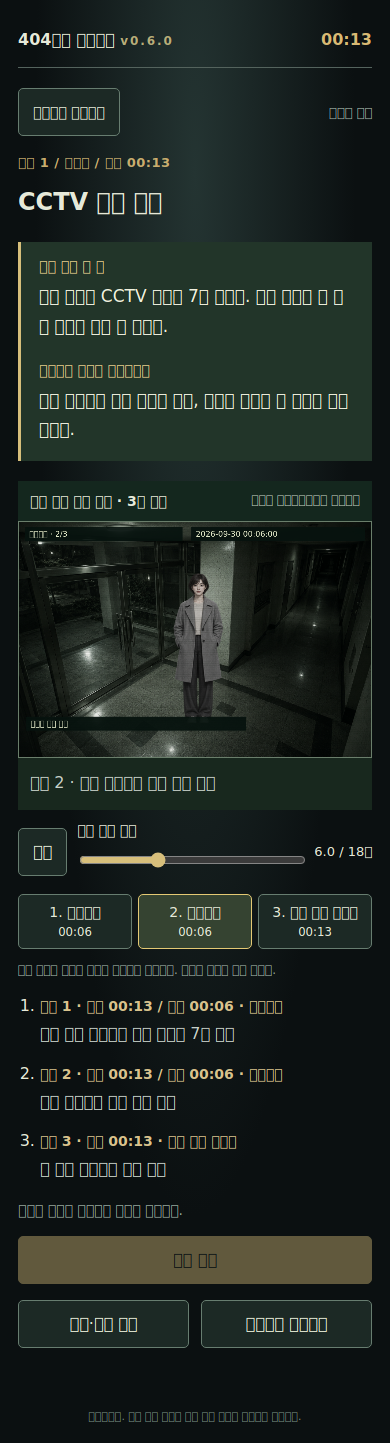
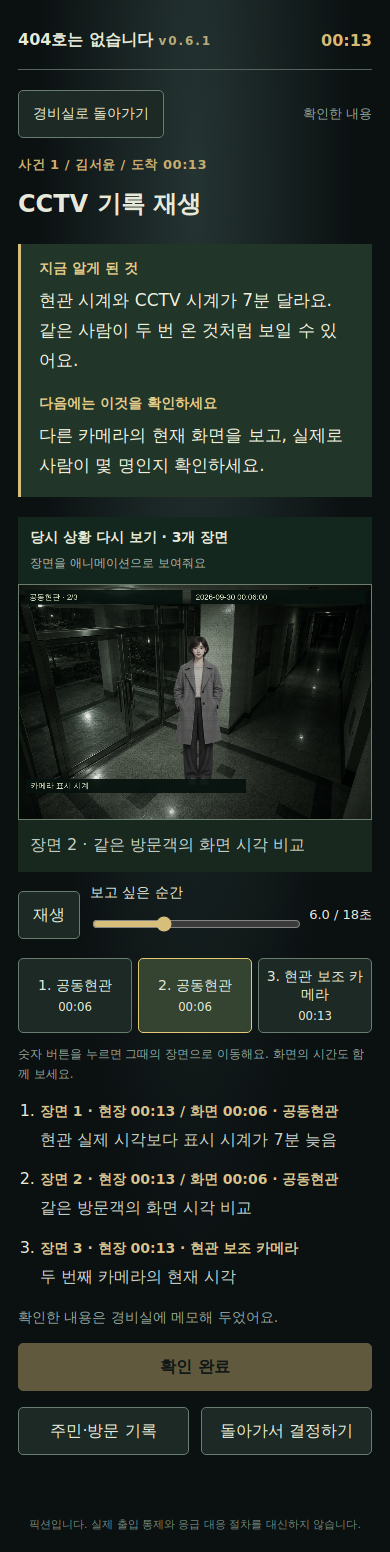
Apply V001 walk sprite to CCTV replay (v0.6.1) and write code guide
- replay.js: V001 enter/cross/descend scenes draw the 8-frame walk sheet,
  frame tied to replay cursor, per-frame foot/torso anchors, flip on descend
- sw.js cache room404-v0.6.1 with the new sheet; UI label v0.6.1
- all-cases: walk frame assertions; CHROMIUM_EXECUTABLE support
- tool buttons' aria-label uses display names
- docs/CODE_GUIDE.md rewritten from the actual code

Claude-Session: https://claude.ai/code/session_01FGAUvVNs8BW1MSHvwbK7z4

diff --git a/404호는 없습니다/room404/dist/replay.js b/404호는 없습니다/room404/dist/replay.js
@@ -2,6 +2,13 @@
 export const LOCATIONS={lobby:'공동현관',lobbySide:'현관 보조 카메라',hall:'안쪽 복도',elevator:'승강기',stairs:'계단실',parking:'주차장',door:'현관 문'};
 export const MODES=['normal','compare','badge','double','shadow','shadowHold','faceLock','absent','yesterday','doorClosed','doorOpen','doorCompare','preMove','footprints','voiceEarly','voiceLate','clock7','repeat','reflection','recorded','live','dateOnly','ir','reboot','loading','delay3','rainDouble','rain','removeProp','idMatch','card','fingerprint','darkCoat','hairOld','distort','faceShadow','blurCard','document','phone','ring','echo'];
 const media={};
+// V001 walk cycle: 4x2 sheet of 384x512 frames, 8 fps. Per frame: torso centre x, foot line y, head top y (opaque pixels),
+// so every frame is drawn at the same foot line and body centre instead of the raw frame box.
+const WALK={src:'assets/visitor-v001-walk-8f.png',fps:8,w:384,h:512,visitors:['V001'],actions:['enter','cross','descend'],
+ anchors:[[240,507,29],[196,506,27],[179,508,29],[168,507,28],[229,481,11],[199,483,12],[190,485,15],[174,480,13]]};
+// Existing visitors.png cell (1024px tall): figure spans y 76-967, torso centre x 201 of 384.
+const STAND={top:76,foot:967,centre:201,cellW:384,cellH:1024};
+export function walkFrame(cursor){return Math.floor(cursor*WALK.fps)%8}
 function load(src){return media[src]??=new Promise((resolve,reject)=>{const im=new Image();im.onload=()=>resolve(im);im.onerror=()=>reject(new Error('장면 이미지를 불러오지 못했습니다.'));im.src=src})}
 export function shiftedTime(time,offset){const [h,m]=time.split(':').map(Number),n=(h*60+m+offset+1440)%1440;return `${String(Math.floor(n/60)).padStart(2,'0')}:${String(n%60).padStart(2,'0')}`}
 export function sceneTime(frame,time){return shiftedTime(time,frame.offset+(frame.mode==='clock7'?-7:0))}
@@ -13,13 +20,19 @@ export async function mountReplay(host,{pack,visitor,time,date,scenes=pack.scene
  const canvas=host.querySelector('canvas'),ctx=canvas.getContext('2d'),caption=host.querySelector('.replay-caption'),seek=host.querySelector('input'),play=host.querySelector('.replay-play');
  let images;
  const ready=Promise.all(['assets/cctv-lobby.png','assets/apartment-scenes.png','assets/visitors.png','assets/mystery-props.png','assets/detail-scenes.png','assets/visitors-before-haircut.png'].map(load));
- const sprite=(Number(visitor.id.slice(1))-1)%4;
+ const sprite=(Number(visitor.id.slice(1))-1)%4,walker=WALK.visitors.includes(visitor.id);
+ let walkSheet=null;
  function badge(text,x,y,w=400){ctx.fillStyle='#07130eef';ctx.fillRect(x,y,w,38);ctx.fillStyle='#e7edcb';ctx.font='21px sans-serif';ctx.fillText(text,x+12,y+26,w-24)}
  function prop(kind,x,y,w,h,opacity=1){const index={hat:0,umbrella:1,mask:2,phone:3,parcel:4,glove:5}[kind];if(index===undefined)return;ctx.save();ctx.globalAlpha=opacity;const im=images[3],cw=im.width/3,ch=im.height/2;ctx.drawImage(im,index%3*cw,Math.floor(index/3)*ch,cw,ch,x,y,w,h);ctx.restore()}
- function actor(x,bottom,height,{alpha=1,flip=false,filter='none',propName='none',mode='normal',phase=0,shadowOnly=false}={}){
+ function actor(x,bottom,height,{alpha=1,flip=false,filter='none',propName='none',mode='normal',phase=0,shadowOnly=false,walk=-1}={}){
   const im=images[2],cw=im.width/4,width=height*cw/im.height;
   ctx.save();ctx.globalAlpha=alpha;ctx.filter=shadowOnly?'brightness(0) opacity(.7)':filter;ctx.translate(x,bottom);if(flip)ctx.scale(-1,1);
-  ctx.drawImage(im,sprite*cw,0,cw,im.height,-width/2,-height,width,height);ctx.restore();
+  if(walk>=0&&walkSheet){
+   // Match the standing sprite's figure height, foot line and torso centre, then place this frame's own anchors there.
+   const [cx,foot,top]=WALK.anchors[walk],unit=height/STAND.cellH,k=(STAND.foot-STAND.top)*unit/(foot-top);
+   ctx.drawImage(walkSheet,walk%4*WALK.w,Math.floor(walk/4)*WALK.h,WALK.w,WALK.h,(STAND.centre-STAND.cellW/2)*unit-cx*k,-(STAND.cellH-STAND.foot)*unit-foot*k,WALK.w*k,WALK.h*k);
+  }else ctx.drawImage(im,sprite*cw,0,cw,im.height,-width/2,-height,width,height);
+  ctx.restore();
   if(shadowOnly)return;
   let removal=mode==='removeProp'?1-phase:1;
   if(propName==='hat')prop('hat',x-width*.39+phase*(mode==='removeProp'?65:0),bottom-height*.94+phase*(mode==='removeProp'?130:0),width*.78,height*.18,removal);
@@ -39,12 +52,13 @@ export async function mountReplay(host,{pack,visitor,time,date,scenes=pack.scene
   if(s.action==='turn'){x=480+Math.sin(phase*Math.PI)*28}
   if(mode==='repeat'){const q=(phase*2)%1;x=200+q*340;h=490-q*185;y=605-q*70}
   if(mode==='distort')h=540;
+  const walk=walker&&walkSheet&&WALK.actions.includes(s.action)?walkFrame(cursor):-1,walkFlip=walk>=0&&s.action==='descend';
   const filter=mode==='darkCoat'?'brightness(.35)':mode==='ir'?'grayscale(1) contrast(1.9) brightness(2)':mode==='blurCard'?'blur(.6px)':'grayscale(.5) brightness(.9)';
-  if(['shadow','shadowHold','faceShadow'].includes(mode)){ctx.save();ctx.translate(mode==='shadow'?x:280,570);ctx.transform(1,.15,-.6,.25,0,0);actor(0,0,470,{shadowOnly:true});ctx.restore()}
+  if(['shadow','shadowHold','faceShadow'].includes(mode)){ctx.save();ctx.translate(mode==='shadow'?x:280,570);ctx.transform(1,.15,-.6,.25,0,0);actor(0,0,470,{shadowOnly:true,walk,flip:walkFlip});ctx.restore()}
   if(mode==='footprints'){ctx.save();ctx.globalAlpha=.5;const im=images[2],cw=im.width/4;for(let j=0;j<6;j++)ctx.drawImage(im,sprite*cw+cw*.35,im.height*.88,cw*.3,im.height*.12,150+j*42,595-j*25,25,14);ctx.restore()}
   if(mode!=='absent'&&mode!=='loading'){
-   if(mode==='double'){actor(335,y,h,{filter,propName:s.prop,mode,phase});actor(650,y,h,{filter,propName:s.prop,mode,phase})}
-   else {actor(x,y,h,{filter,propName:s.prop,mode,phase,flip:s.action==='turn'&&phase>.5});if(['reflection','rainDouble'].includes(mode))actor(mode==='reflection'?960-x:x+50,y,mode==='reflection'?h*.9:h,{alpha:mode==='reflection'?.35:.42,flip:mode==='reflection',filter:mode==='rainDouble'?'blur(5px)':filter})}
+   if(mode==='double'){actor(335,y,h,{filter,propName:s.prop,mode,phase,walk,flip:walkFlip});actor(650,y,h,{filter,propName:s.prop,mode,phase,walk,flip:walkFlip})}
+   else {actor(x,y,h,{filter,propName:s.prop,mode,phase,flip:walkFlip||s.action==='turn'&&phase>.5,walk});if(['reflection','rainDouble'].includes(mode))actor(mode==='reflection'?960-x:x+50,y,mode==='reflection'?h*.9:h,{alpha:mode==='reflection'?.35:.42,flip:mode==='reflection'!==walkFlip,filter:mode==='rainDouble'?'blur(5px)':filter,walk})}
   }
   if(s.action==='wave'||s.action==='knock'){prop('glove',x+55+Math.sin(phase*Math.PI*4)*25,y-h*.77,90,120)}
   if(mode==='faceLock'){const im=images[2],cw=im.width/4;ctx.drawImage(im,sprite*cw+cw*.27,im.height*.06,cw*.48,im.height*.2,450,140,85,120);ctx.strokeStyle='#e9c46f';ctx.strokeRect(450,140,85,120)}
@@ -62,7 +76,7 @@ export async function mountReplay(host,{pack,visitor,time,date,scenes=pack.scene
   ctx.fillStyle='#07100a16';for(let yLine=0;yLine<640;yLine+=5)ctx.fillRect(0,yLine,960,1);
   badge(`${LOCATIONS[s.location]} · ${index+1}/${scenes.length}`,16,14,430);
   let recordedDate=mode==='yesterday'?previousDate(date):date;badge(`${recordedDate} ${sceneTime(s,time)}:${String(Math.floor(phase*6)).padStart(2,'0')}`,470,14,474);
-  canvas.dataset.mode=mode;canvas.dataset.scene=String(index);canvas.dataset.time=sceneTime(s,time);canvas.dataset.location=s.location;canvas.dataset.count=String(mode==='absent'||mode==='loading'?0:['double','reflection','rainDouble'].includes(mode)?2:1);
+  canvas.dataset.mode=mode;canvas.dataset.scene=String(index);canvas.dataset.time=sceneTime(s,time);canvas.dataset.location=s.location;canvas.dataset.walkFrame=String(walk);canvas.dataset.count=String(mode==='absent'||mode==='loading'?0:['double','reflection','rainDouble'].includes(mode)?2:1);
   caption.textContent=`장면 ${index+1} · ${s.note}`;seek.value=String(cursor);host.querySelector('output').textContent=`${cursor.toFixed(1)} / ${duration}초`;host.querySelectorAll('[data-chapter]').forEach((b,i)=>b.setAttribute('aria-pressed',String(index===i)));
  }
  function loop(now){if(disposed)return;if(playing){cursor+=previous?(now-previous)/1000:0;if(cursor>=duration-.01){cursor=duration-.01;playing=false;play.textContent='처음부터 재생'}draw()}previous=now;raf=requestAnimationFrame(loop)}
@@ -70,6 +84,6 @@ export async function mountReplay(host,{pack,visitor,time,date,scenes=pack.scene
  seek.oninput=()=>{cursor=Number(seek.value);playing=false;play.textContent='재생';draw()};
  host.querySelectorAll('[data-chapter]').forEach((b,i)=>b.onclick=()=>{cursor=i*6;playing=false;play.textContent='재생';draw()});
  function visibility(){if(document.hidden){playing=false;play.textContent='재생'}}document.addEventListener('visibilitychange',visibility);
- try{images=await ready;if(!disposed){draw();raf=requestAnimationFrame(loop)}}catch(e){caption.textContent=e.message;play.disabled=true;seek.disabled=true}
+ try{images=await ready;if(walker)walkSheet=await load(WALK.src).catch(()=>null);if(!disposed){draw();raf=requestAnimationFrame(loop)}}catch(e){caption.textContent=e.message;play.disabled=true;seek.disabled=true}
  return ()=>{disposed=true;cancelAnimationFrame(raf);document.removeEventListener('visibilitychange',visibility)};
 }

diff --git a/404호는 없습니다/room404/dist/game.js b/404호는 없습니다/room404/dist/game.js
@@ -27,7 +27,7 @@ function evidence(){
  $('routine').textContent=next?`다음 할 일: ${TOOL_NAMES[next]}` : !run.verified?'다음 할 일: 한 번 더 확인':'확인을 마쳤어요. 이 사람을 들여보낼지 결정하세요.';
  $('guidedAction').textContent=next?TOOL_NAMES[next]:!run.verified?'한 번 더 확인하기':'확인한 내용 다시 보기';
  $('guidedAction').onclick=()=>next?inspect(next):!run.verified?verify():$('evidence').scrollIntoView({behavior:'smooth'});
- document.querySelectorAll('[data-tool]').forEach(b=>{b.disabled=false;b.classList.toggle('seen',run.seen.includes(b.dataset.tool));b.setAttribute('aria-label',b.dataset.tool+(run.seen.includes(b.dataset.tool)?' · 다시 보기':''))});$('verify').disabled=!run.seen.length;
+ document.querySelectorAll('[data-tool]').forEach(b=>{b.disabled=false;b.classList.toggle('seen',run.seen.includes(b.dataset.tool));b.setAttribute('aria-label',TOOL_NAMES[b.dataset.tool]+(run.seen.includes(b.dataset.tool)?' · 다시 보기':''))});$('verify').disabled=!run.seen.length;
 }
 function render(){if(!run)return;$('shiftLabel').textContent=run.mode==='daily'?'오늘의 근무 · '+run.date:'첫 근무';
  if(run.screen==='game'){
@@ -110,4 +110,4 @@ $('backDesk').onclick=backDesk;$('finishInspect').onclick=backDesk;$('toolAction
 $('startStory').onclick=()=>start('story');$('startDaily').onclick=()=>start('daily');$('resume').onclick=render;$('homeButton').onclick=home;$('again').onclick=()=>start(run.mode);$('resultHome').onclick=home;
 document.querySelectorAll('[data-tool]').forEach(b=>b.onclick=()=>inspect(b.dataset.tool));$('verify').onclick=verify;$('allow').onclick=()=>decide(true);$('deny').onclick=()=>decide(false);$('next').onclick=next;$('share').onclick=share;$('retry').onclick=boot;
 window.addEventListener('beforeinstallprompt',e=>{e.preventDefault();deferredInstall=e;$('install').hidden=false});$('install').onclick=async()=>{if(deferredInstall){await deferredInstall.prompt();deferredInstall=null;$('install').hidden=true}};window.addEventListener('appinstalled',()=>{$('install').hidden=true});
-document.addEventListener('visibilitychange',()=>{if(document.hidden&&run)save()});$('version').textContent='v0.6.0';boot();
+document.addEventListener('visibilitychange',()=>{if(document.hidden&&run)save()});$('version').textContent='v0.6.1';boot();

diff --git a/404호는 없습니다/room404/dist/sw.js b/404호는 없습니다/room404/dist/sw.js
@@ -1,5 +1,5 @@
-const CACHE='room404-v0.6.0';
-const FILES=['./','./index.html','./style.css','./game.js','./engine.js','./manifest.webmanifest','./data/visitors.json','./data/anomalies.json','./icons/icon-180.png','./icons/icon-192.png','./icons/icon-512.png','./assets/cctv-lobby.png','./assets/visitors.png','./assets/apartment-scenes.png','./assets/mystery-props.png','./assets/detail-scenes.png','./assets/visitors-before-haircut.png','./replay.js','./data/scenarios.json'];
+const CACHE='room404-v0.6.1';
+const FILES=['./','./index.html','./style.css','./game.js','./engine.js','./manifest.webmanifest','./data/visitors.json','./data/anomalies.json','./icons/icon-180.png','./icons/icon-192.png','./icons/icon-512.png','./assets/cctv-lobby.png','./assets/visitors.png','./assets/apartment-scenes.png','./assets/mystery-props.png','./assets/detail-scenes.png','./assets/visitors-before-haircut.png','./assets/visitor-v001-walk-8f.png','./replay.js','./data/scenarios.json'];
 self.addEventListener('install',event=>event.waitUntil((async()=>{const cache=await caches.open(CACHE);await cache.addAll(FILES);await self.skipWaiting()})()));
 self.addEventListener('activate',event=>event.waitUntil((async()=>{for(const key of await caches.keys())if(key.startsWith('room404-')&&key!==CACHE)await caches.delete(key);await self.clients.claim()})()));
 self.addEventListener('fetch',event=>{

diff --git a/404호는 없습니다/docs/CODE_GUIDE.md b/404호는 없습니다/docs/CODE_GUIDE.md
@@ -1,88 +1,175 @@
 # 코드 가이드
 
-코드 구조를 섹션별로 정리합니다. 코드를 바꾸면 해당 섹션도 함께 고칩니다.
+코드 구조를 섹션별로 정리합니다. **코드를 바꾸면 해당 섹션도 함께 고칩니다.**
 
-> 현재는 v0.6 인수인계서를 바탕으로 한 **뼈대**입니다. v0.6 코드를 이 폴더에 올린 뒤, 실제 코드를 읽고 각 섹션을 채웁니다.
-> `(코드 확인 전)` 표시가 있는 섹션은 아직 코드로 검증하지 않은 내용입니다.
+- 기준 버전: v0.6.1 (2026-09-30)
+- 코드 위치: `room404/`
+- 빌드 과정 없이 `room404/dist/` 폴더를 그대로 웹 서버에 올리면 실행됩니다.
 
 ---
 
-## 1. 전체 구조 (코드 확인 전)
+## 1. 전체 구조
 
-| 파일 | 역할 |
-|---|---|
-| `dist/index.html`, `style.css` | 화면 구성과 스타일 |
-| `dist/game.js` | 조사 화면, 안내문, 진행·저장·결과 UI |
-| `dist/engine.js` | 사건 선택, 점수, 판정, 결말, 저장 유효성 |
-| `dist/replay.js` | 18초 CCTV 재현 (6초씩 3구간) |
-| `dist/data/anomalies.json` | 100개 사건과 정답 기준 |
-| `dist/data/scenarios.json` | 사건별 장면·서류·통화·확인 결과·쉬운 설명 |
-| `dist/data/visitors.json`, `endings.json` | 방문객, 결말 |
-| `dist/assets/` | 사람·소품·배경 이미지 |
-| `dist/sw.js`, `manifest.webmanifest` | 오프라인 캐시, PWA 설정 |
-| `tests/` | 엔진·데이터·브라우저 회귀·전수 UI 검사 |
-
-## 2. 게임 흐름 (코드 확인 전)
-
-- 한 근무에 방문객은 8명입니다.
-- 화면 상태는 `home` → `game` → `investigation` → `feedback` → `result` 순서입니다.
-- `investigation` 도중에 저장하면 `run.screen`은 `game`으로 기록됩니다.
-- 도구를 열기만 해서는 확인 처리되지 않습니다. 실제 조회 동작을 해야 확인으로 기록됩니다.
-- 재확인 전에는 최종 결과를 숨깁니다.
-
-## 3. 판정 엔진 (engine.js) (코드 확인 전)
-
-- 저장 호환성 때문에 엔진 버전은 `0.2.0`을 유지합니다. UI 버전 0.6.0과 다른 것은 의도된 것입니다.
-
-## 4. 조사 도구 (코드 확인 전)
-
-| 내부 키 (유지) | 화면 이름 (v0.6) |
-|---|---|
-| `CCTV` | CCTV 보기 |
-| `명부` | 주민·방문 기록 |
-| `통화` | 집에 전화하기 |
-| `재확인` | 한 번 더 확인 |
-
-판정 버튼은 `들여보내기`와 `문 열지 않기` 두 개입니다.
-
-## 5. CCTV 재현 (replay.js) (코드 확인 전)
-
-- 18초를 6초씩 3구간으로 나눕니다. 재생, 정지, 구간 이동을 지원합니다.
-- 생성 이미지를 canvas로 움직여 만든 재현이며, 실제 영상 파일은 아닙니다.
-
-## 6. 데이터 형식 (코드 확인 전)
-
-- `scenarios.json`의 각 사건에는 쉬운 설명 필드 `plain.what`, `plain.check`, `plain.confirmed`, `plain.decision`이 있습니다.
-- 원래의 clue/verification 필드와 정답 `safe`는 그대로 보존합니다.
-
-## 7. 저장 (코드 확인 전)
-
-- `localStorage` 키는 `404_active_v2`(진행 중인 근무)와 `404_last_run`(마지막 결과)입니다.
-
-## 8. 오프라인·PWA (코드 확인 전)
-
-- UI와 서비스워커 버전은 0.6.0입니다.
-
-## 9. 테스트
-
-```bash
-npm ci
-npm test                 # 엔진·데이터
-npm run test:ui          # 브라우저 회귀 (all-cases보다 먼저 실행)
-npm run test:all-cases   # 100개 사건 · 300개 장면 전수 UI 검사
+```
+room404/
+├─ dist/                  ← 실제 게임 (이 폴더만 배포)
+│  ├─ index.html          화면 뼈대 (5개 화면 섹션)
+│  ├─ style.css           스타일 (모바일 우선, 최대 폭 540px)
+│  ├─ game.js             화면 제어·조사 도구·저장·결과 카드
+│  ├─ engine.js           규칙: 사건 선택·판정·결말·저장 검증
+│  ├─ replay.js           CCTV 재현 (canvas 애니메이션)
+│  ├─ sw.js               오프라인 캐시 (서비스워커)
+│  ├─ manifest.webmanifest PWA 설정
+│  ├─ data/               게임 데이터 (JSON)
+│  ├─ assets/             그림 (스프라이트 시트)
+│  └─ icons/              앱 아이콘
+├─ tests/                 자동 검사
+├─ scripts/               v0.6 문구 변환 기록 (다시 실행 금지)
+├─ test-artifacts/        검사 결과와 화면 캡처
+└─ CLAUDE_HANDOFF.md 등   인수인계·변경 기록
 ```
 
-- `tests/all-cases.mjs`에는 Linux Chromium 경로가 하드코딩되어 있습니다. 다른 OS에서는 `CHROMIUM_EXECUTABLE`을 지원하도록 고칠 예정입니다.
+## 2. 화면 흐름
+
+`index.html`에는 5개 화면이 있고, `game.js`의 `show(screen)`이 하나만 보이게 합니다.
+
+```
+home ──시작──▶ game ◀──돌아가기── investigation
+                 │                 (CCTV / 기록 / 전화 / 한 번 더 확인)
+              판단(들여보내기 / 문 열지 않기)
+                 ▼
+             feedback ──다음──▶ game … (8명) ──▶ result
+```
+
+| 화면 | 역할 |
+|---|---|
+| `home` | 첫 근무, 오늘의 근무, 이어하기, 처음 하는 사람을 위한 4단계 안내, 설치 안내 |
+| `game` | 방문객 초상, 주장, 조사 도구 4개, 사건 타임라인, 판단 버튼 |
+| `investigation` | 도구별 조사 화면. 버튼을 눌러야 내용이 열림 |
+| `feedback` | 판단이 맞았는지와 이유 |
+| `result` | 결말, 통계, 결과 이미지(PNG) 저장 |
+
+- `investigation`은 저장 대상이 아닙니다. 저장되는 `run.screen`은 `game`, `feedback`, `result` 셋뿐입니다. 조사 중에 앱을 닫으면 `game` 화면에서 다시 시작합니다.
+
+## 3. 게임 규칙 (engine.js)
+
+순수 함수로만 되어 있어 화면 없이 테스트할 수 있습니다.
+
+| 함수 | 역할 |
+|---|---|
+| `newRun(mode, visitors, anomalies, date)` | 근무 1회(8건)를 만듭니다. `story`는 순서가 고정되고, `daily`는 날짜(한국 시간) 기반 시드로 매일 같은 8건이 나옵니다. |
+| `decideRun(run, allow, anomalies)` | 판단을 기록합니다. 같은 사건에 두 번 판단하는 것은 막습니다. |
+| `advance(run)` | 다음 사건으로 넘어갑니다. 8건을 마치면 `result`가 됩니다. |
+| `totals(run)` | 정답 수, 위험 허용 수, 정상 거부 수, 조사 횟수를 셉니다. |
+| `ending(run, anomalies)` | 결말을 정합니다. 우선순위: 404호 → 오판 → 무고한 거부 → 신중한 경비원 → 기본 결말 |
+| `validRun(...)` | 저장 데이터가 손상됐는지 검사합니다. 손상되면 새 근무로 시작합니다. |
+
+- **`VERSION='0.2.0'`은 바꾸면 안 됩니다.** 저장 호환 키입니다. 바꾸면 기존 사용자의 진행 기록이 모두 무효가 됩니다. 화면 버전(v0.6.1)과 다른 것은 의도된 것입니다.
+- 도착 시각은 `TIMES`에 고정되어 있습니다(00:13 ~ 05:50).
+
+## 4. 화면 제어 (game.js)
+
+| 부분 | 설명 |
+|---|---|
+| `boot()` | JSON 3개를 불러와 개수(각 100개)를 검증하고, 저장된 근무를 복원합니다. 실패하면 "다시 불러오기" 버튼을 보여 줍니다. |
+| `current()` | 지금 사건의 방문객(`v`), 이상 징후(`a`), 시나리오(`pack`)를 합칩니다. `pack.unitOverride`가 있으면 방문 호수를 덮어씁니다. |
+| `render()` | `run.screen`에 따라 화면을 그립니다. |
+| `evidence()`, `timeline()` | 경비실 화면의 "다음 할 일"과 사건 타임라인 |
+| `inspect(tool)`, `verify()`, `renderTool()` | 조사 화면을 엽니다. **열기만 해서는 확인 처리되지 않습니다.** `readTool()`(아래쪽 주 버튼)을 눌러야 `run.seen`에 기록됩니다. |
+| `documentView()`, `transcript()` | 기록 비교 화면과 통화 기록 화면 |
+| `clueFor(tool)` | 도구별로 알게 된 내용. 사건의 핵심 채널(`a.channel`)이면 `plain.what`을 보여 줍니다. |
+| `share()` | 1080×1350 결과 카드를 canvas로 만듭니다. 공유가 되면 OS 공유 창을, 안 되면 다운로드 링크를 띄웁니다. |
+| `offline()` | 서비스워커를 등록합니다. Capacitor 앱 안에서는 건너뜁니다(이미 대응됨). |
+
+- **저장 키**: `404_active_v2`는 진행 중인 근무, `404_last_run`은 마지막 결과입니다. 저장에 실패하면 경고 문구를 띄웁니다.
+- **도구 이름**: 내부 키 `CCTV`, `명부`, `통화`, `재확인`은 유지하고, 화면 이름만 `TOOL_NAMES`로 바꿉니다.
+- **초상**: `person(v)`는 `assets/visitors.png`(4명이 가로로 배치된 시트)에서 `(번호-1) % 4`번째 인물을 잘라 씁니다. 방문객 100명이 4가지 그림을 돌려 씁니다.
+
+## 5. CCTV 재현 (replay.js)
+
+- 사건마다 장면 3개, 장면당 6초로 총 18초입니다. 실제 영상이 아니라 그림을 canvas 위에서 움직인 것입니다.
+- `mountReplay(host, {pack, visitor, time, date})`가 화면을 만들고, 정리 함수를 돌려줍니다. 다른 화면으로 가면 `game.js`의 `clearReplay()`가 정리합니다.
+- `cursor`(초)가 모든 상태의 기준입니다. 재생, 슬라이더, 장면 버튼이 모두 `cursor`만 바꾸고 `draw()`를 부릅니다. 같은 `cursor`에서는 항상 같은 그림이 나옵니다.
+- 장면 데이터의 의미:
+  - `location`: 배경. `lobby`, `lobbySide`, `hall`, `elevator`, `stairs`, `parking`, `door`
+  - `action`: 움직임. `enter`, `cross`, `descend`, `turn`, `wait`, `wave`, `knock`, `phone`, `pan`
+  - `mode`: 이상 징후 연출 41종 (`MODES`). 예: `double`(두 사람), `clock7`(시계 7분 차이), `absent`(사람 없음)
+  - `prop`: 소품. `hat`, `umbrella`, `mask`, `phone`, `parcel`, `glove`
+  - `offset`: 도착 시각 기준 몇 분 전·후인지
+- 검사용 표시: canvas의 `data-mode`, `data-time`, `data-location`, `data-count`, `data-walk-frame` 속성을 테스트가 읽습니다.
+
+### 5-1. V001 걷기 모션 (v0.6.1)
+
+- `WALK` 설정: `assets/visitor-v001-walk-8f.png`(4×2, 프레임 384×512, 8fps). 대상은 방문객 `V001`, 동작은 `enter`, `cross`, `descend`입니다.
+- `walkFrame(cursor) = floor(cursor×8) mod 8`
+- `WALK.anchors`에는 프레임별 `[몸통 중심 x, 발 y, 머리 y]`가 들어 있습니다. 불투명 픽셀(alpha>128)을 측정한 값입니다. `actor()`가 이 값으로 기존 서 있는 그림(`STAND`)과 키, 발 위치, 몸통 중심을 맞춥니다.
+- `descend`에서는 좌우 반전합니다. 그림이 오른쪽을 보고 있기 때문입니다.
+- **다른 방문객에게 넓히려면**: 새 시트를 만든 뒤 `anchors`를 다시 측정하고 `WALK.visitors`에 추가합니다. 방문객마다 시트가 다르면 `WALK`를 방문객별 목록으로 바꿔야 합니다.
+
+## 6. 데이터 (dist/data)
+
+| 파일 | 개수 | 내용 |
+|---|---|---|
+| `visitors.json` | 100 | `id`(V001~), `name`, `unit`(호수), `role`, `claim` |
+| `anomalies.json` | 100 | **정답의 기준**. `safe`(들여보내도 되는지), `channel`(핵심 단서가 있는 도구), `category` |
+| `scenarios.json` | 100 | 사건별 장면 3개, 서류(`document`), 통화(`call`), 쉬운 설명(`plain.what/check/confirmed/decision`), `recordCode` |
+| `endings.json` | 30 | 결말 설계 목록. 실제 구현은 6개 (`implemented_in_prototype`) |
+
+- `scenarios.json`의 `safe`, `channel`, `clue`, `verification`은 `anomalies.json`과 같아야 합니다. 테스트(`scenarios.test.mjs`)가 검사합니다.
+- 문구의 `{name}`, `{unit}`은 `fill()`이 방문객 정보로 바꿉니다.
+
+## 7. 그림 (dist/assets)
+
+| 파일 | 배치 | 쓰는 곳 |
+|---|---|---|
+| `visitors.png` | 1536×1024, 가로 4명 | 초상, CCTV 인물 |
+| `visitors-before-haircut.png` | 같은 배치 | `hairOld` 모드의 예전 사진 |
+| `visitor-v001-walk-8f.png` | 4×2 프레임 | V001 걷기 (v0.6.1) |
+| `cctv-lobby.png` | 1장 | 공동현관 배경 |
+| `apartment-scenes.png` | 가로 3칸 | 승강기, 복도, 계단 |
+| `detail-scenes.png` | 가로 3칸 | 주차장, 문 열림, 문 닫힘 |
+| `mystery-props.png` | 3×2 | 모자, 우산, 마스크, 휴대폰, 택배, 장갑 |
+
+## 8. 오프라인 (sw.js)
+
+- 설치할 때 `FILES` 목록 전체를 캐시합니다. 이후에는 캐시를 먼저 쓰고, 없으면 네트워크를 씁니다.
+- **파일을 추가하거나 수정하면 `CACHE` 이름(`room404-v0.6.1`)을 올려야** 사용자에게 새 파일이 전달됩니다. 새 파일은 `FILES`에도 추가합니다.
+- 앱(Capacitor) 안에서는 서비스워커를 쓰지 않습니다.
+
+## 9. 테스트 (tests)
+
+```bash
+cd room404
+npm ci
+npm test                 # engine.test + scenarios.test (11개)
+npm run test:ui          # 브라우저 회귀 9그룹. Linux용 Chromium 준비를 겸함
+npm run test:all-cases   # 사건 100개 × 장면 3개 전수 검사
+```
+
+- `test:ui`를 먼저 실행해야 합니다. `@sparticuz/chromium`에서 브라우저를 `/tmp/room404-chromium`으로 풀기 때문입니다. 다른 OS에서는 `CHROMIUM_EXECUTABLE`을 지정합니다.
+- 두 브라우저 검사는 `test-artifacts/`의 결과 JSON과 스크린샷을 덮어씁니다.
+- 스크린샷의 한글이 네모로 보이면 한국어 글꼴을 설치합니다(예: `fonts-noto-cjk`).
+- 마지막 결과(2026-09-30): 11/11, 9/9, 100/100 모두 통과
 
 ## 10. 주의사항
 
-- `scripts/plain-language-v6.py`와 `scripts/ui-copy-v6.py`는 **다시 실행하지 않습니다.** 반복 치환으로 문구가 손상될 수 있습니다.
-- 결말과 정답을 조사 전에 드러내지 않습니다.
+- `scripts/*-v6.py`는 **다시 실행하지 않습니다.** 반복 치환으로 문구가 손상됩니다.
+- `changes-from-v0.5.patch`는 참고 기록입니다. **다시 적용하지 않습니다.**
+- 조사하기 전에 결말이나 정답이 드러나면 안 됩니다. 테스트가 "버튼을 누르기 전에는 확인 결과가 보이지 않음"을 검사합니다.
+- 운영 사이트(ChatGPT Sites, 소유자 전용)의 공개 범위는 바꾸지 않습니다.
 
 ## 11. 개선 후보
 
-코드를 확인한 뒤 우선순위와 함께 채웁니다. 현재 알려진 항목은 다음과 같습니다.
+| 우선 | 항목 | 이유 |
+|---|---|---|
+| 높음 | Android 뒤로가기 처리 | 앱에서 뒤로가기를 누르면 바로 종료됩니다. 조사 화면에서는 경비실로 돌아가야 합니다. |
+| 높음 | 결과 이미지 저장을 앱 방식으로 | Android 웹뷰에서는 파일 공유와 blob 다운로드가 동작하지 않을 수 있습니다. Capacitor Share/Filesystem을 씁니다. |
+| 중간 | 저장을 Capacitor Preferences로 이중화 | 웹뷰의 localStorage는 OS가 정리할 때 지워질 수 있습니다. |
+| 중간 | 걷기 모션을 다른 방문객으로 확대 | 지금은 V001만 적용되어 있습니다. |
+| 낮음 | 경비실 첫 안내 문구 말투 통일 | "확인하십시오"만 딱딱한 말투로 남아 있습니다. |
+| 낮음 | 결말 24개 추가 구현 | `endings.json` 30개 중 6개만 구현되어 있습니다. |
 
-- [ ] `all-cases.mjs`의 하드코딩된 브라우저 경로 제거
-- [ ] 테스트 환경에 한국어 글꼴을 설치해 스크린샷으로 가독성 확인
-- [ ] 앱 출시용 Capacitor 대응 (`STORE_RELEASE_PLAN.md` 2장)
+### 완료한 개선
+
+- v0.6.1: 조사 도구 버튼의 스크린리더 이름을 화면 이름과 일치시켰습니다.
+- v0.6.1: `all-cases` 테스트의 브라우저 경로 하드코딩을 제거했습니다.

diff --git a/404호는 없습니다/room404/CHANGELOG-0.6.1.md b/404호는 없습니다/room404/CHANGELOG-0.6.1.md
@@ -1,0 +1,16 @@
+# 0.6.1 — V001 걷기 모션
+
+2026-09-30
+
+- CCTV 재현에서 V001(김서윤)이 걷는 장면(`enter`, `cross`, `descend`)에만 8프레임 걷기 그림(`assets/visitor-v001-walk-8f.png`)을 사용.
+- 프레임 번호는 재생 위치로 계산(`floor(cursor×8) mod 8`). 재생, 일시정지, 슬라이더 이동, 장면 이동이 모두 같은 프레임을 가리킨다.
+- 프레임마다 발 위치와 몸통 중심을 측정해 맞췄다. 위아래 행의 발 위치가 약 25px 다르지만 화면에서는 튀지 않는다. 원본 그림은 수정하지 않았다.
+- `descend`(오른쪽→왼쪽 이동)에서는 그림을 좌우로 뒤집는다.
+- V001 이외의 방문객, 초상, 등록사진, 얼굴 확대, 서류 그림, 사건 정답, 사건 데이터는 바꾸지 않았다. 같은 기본 그림을 쓰는 V005 등도 기존 그림을 유지한다.
+- 서비스워커 캐시를 `room404-v0.6.1`로 올리고 새 그림을 캐시 목록에 추가. 화면 버전 표기는 v0.6.1.
+- 검사: `all-cases`에 V001 걷기 프레임과 V005 미적용 확인을 추가. 대표 프레임은 `test-artifacts/v001-walk-frames.png`.
+- 걷기 그림의 얼굴은 초상과 완전히 같은 인물로 보장되지 않는다. CCTV의 작은 화면에서는 옷차림(회색 코트)이 일치해 이질감이 적었다. 실기기에서 한 번 더 확인이 필요하다.
+
+기타
+- 조사 도구 버튼의 스크린리더 이름을 내부 키(`명부` 등) 대신 화면 이름(`주민·방문 기록` 등)으로 수정.
+- `tests/all-cases.mjs`가 `CHROMIUM_EXECUTABLE` 환경변수를 지원한다. Linux 이외의 OS에서는 Playwright 기본 브라우저를 쓴다.

diff --git a/404호는 없습니다/docs/WORKLOG.md b/404호는 없습니다/docs/WORKLOG.md
@@ -38,3 +38,13 @@
 - 76개 모두 Drive에 표시된 크기와 일치합니다. `room404/SHA256SUMS.txt`의 60개 항목도 모두 체크섬이 일치합니다.
 - `room404/.gitignore`는 `test-artifacts/`를 제외하도록 되어 있지만, 요청에 따라 검사 결과도 강제로 포함했습니다.
 - 다음 할 일: 테스트 실행 → CODE_GUIDE 작성 → V001 걷기 모션 적용 → Android 플랫폼 추가.
+
+### 테스트와 v0.6.1
+- 한국어 글꼴(fonts-noto-cjk)을 설치해 스크린샷의 한글이 정상으로 보이는 것을 확인했습니다. 인수인계 때 남아 있던 한글 가독성 검토 문제가 해결됐습니다.
+- v0.6.0 원본 기준 검사: 엔진 11/11, 브라우저 9/9, 전수 100/100(300장면) 통과.
+- V001 걷기 모션을 적용해 v0.6.1이 됐습니다(`room404/CHANGELOG-0.6.1.md`).
+  - 프레임별 발과 몸통 기준점을 맞췄습니다. 재생 위치에 연동되고, V005 등 다른 방문객은 그대로입니다.
+  - 적용 후 다시 검사해 모두 통과했습니다. 걷기 프레임 검사도 추가했습니다.
+- 소규모 개선: 도구 버튼의 스크린리더 이름을 수정하고, all-cases 테스트의 브라우저 경로 하드코딩을 없앴습니다.
+- `docs/CODE_GUIDE.md`를 실제 코드 기준으로 작성했습니다.
+- 다음 할 일: Android(Capacitor) 플랫폼 추가 → 뒤로가기·결과 이미지 저장 대응 → GitHub Actions로 AAB 빌드.

diff --git a/404호는 없습니다/README.md b/404호는 없습니다/README.md
@@ -7,7 +7,7 @@
 | 항목 | 상태 |
 |---|---|
 | 운영 사이트 | v0.5.0 (ChatGPT Sites, 소유자 전용) |
-| 최신 작업본 | v0.6.0 — `room404/` (운영 미배포) |
+| 최신 작업본 | v0.6.1 — `room404/` (운영 미배포). V001 걷기 모션 적용 |
 | iOS 앱 | Capacitor 8.5.2 Xcode 프로젝트 초안 (v0.2 기준, 최신 코드와 동기화 필요) |
 | Android 앱 | 아직 없음 |
 | 스토어 등록 | 아직 안 함. Google Play 먼저 진행 (앱 ID `com.musi0905.room404`, 3,300원) |
@@ -17,7 +17,7 @@
 | 폴더 | 내용 |
 |---|---|
 | `room404/` | 게임 소스 v0.6.0 (dist, tests, scripts, 인수인계 문서, 검사 결과) |
-| `character-motion-v1/` | V001 걷기 캐릭터 스프라이트와 적용 지침 (아직 코드에 적용 전) |
+| `character-motion-v1/` | V001 걷기 캐릭터 원본 자료 (v0.6.1에서 코드에 적용됨) |
 | `docs/` | 정리 문서 |
 
 ## 문서
